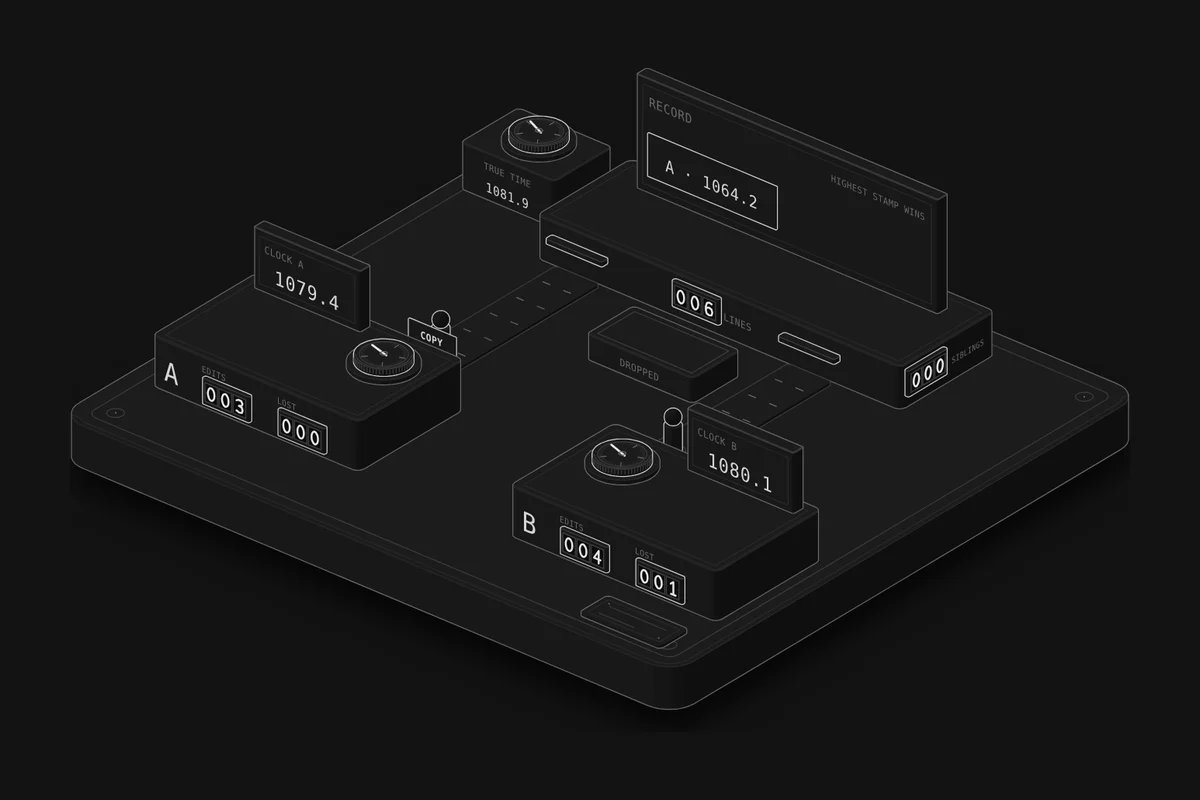
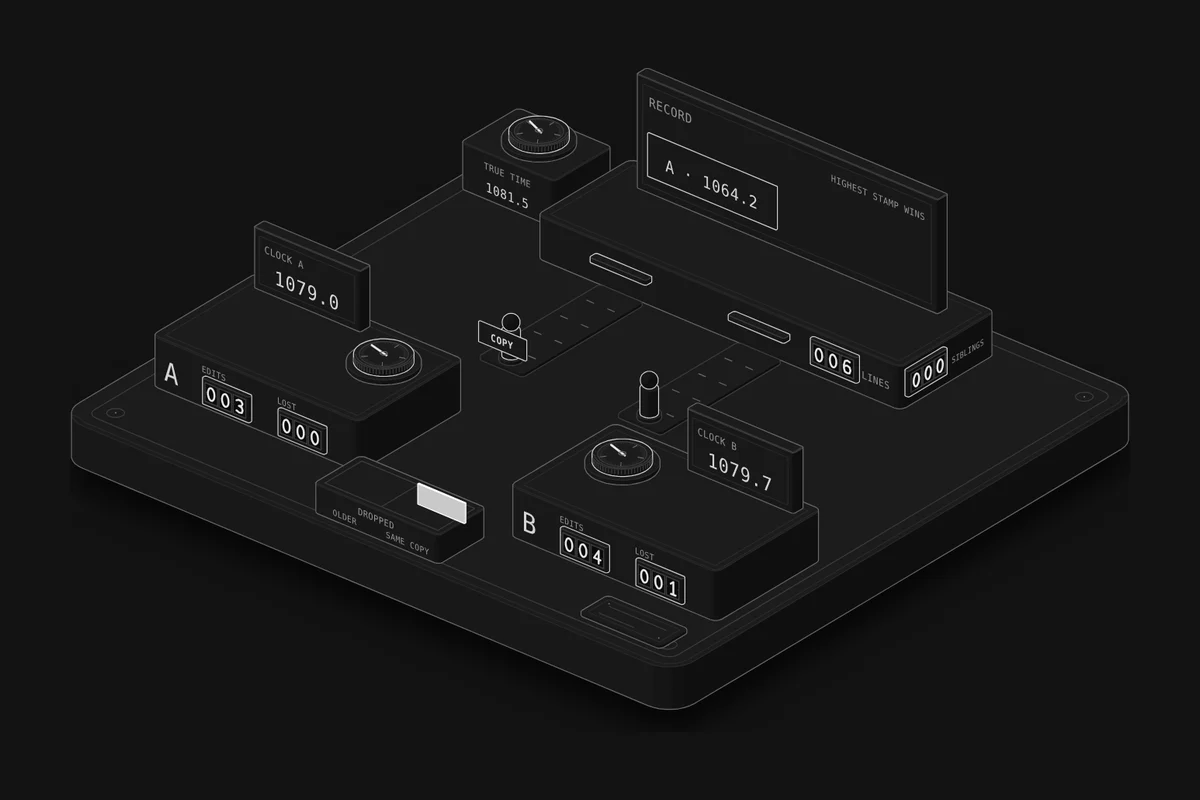
Lesson 61: fix review findings (couriers in view, OLDER and SAME COPY bins, Lamport counts, Watch timing)
Claude-Session: https://claude.ai/code/session_01S5z2gCvevbrGU3fXgpGDmP

diff --git a/src/lessons/clocks/live.ts b/src/lessons/clocks/live.ts
@@ -1,7 +1,8 @@
 // @ts-nocheck: live code in the style of the other lessons; shared helpers come from src/runtime and src/lib.
 // The records desk in the browser: runs the model in slow motion, walks each office's courier to the desk and back,
-// turns the clocks, shows the record's stamp (and a sibling), drops lost edits into the tray, and answers the
-// controls. mount() gets the build-time data from page.ts (projection, geometry, the courier drawing) and root, the
+// turns the clocks, shows the record's stamp (and a sibling), drops lost edits into the tray's bins, and answers the
+// controls. "Watch it on the machine" jumps the run to a few seconds before the moment the experiment is about,
+// found by running the same seed ahead. mount() gets the build-time data from page.ts (projection, geometry, the courier drawing) and root, the
 // <wb-lesson>.
 import { translateAlong, depthOf } from "../../../workbench/vendor-anatomy/kit/iso-kit.mjs";
 import * as WB from "../../runtime/wb";
@@ -37,24 +38,36 @@ export default function mount({ P, G, COURIER_SVG, SLIP_SVG }, root) {
     setText(c.text, label);
     show(c.slip, label !== "");
   }
-  // lit slips falling into the tray (page time, so they fall at the same pace at every speed)
-  const drops = [];
+  // lit slips falling into the tray's bins (page time, so they fall at the same pace at every speed); the last three
+  // in each bin stay there, newest in front
+  const drops = [], resting = [[], []], KEEP = 3;
   let pageT = 0;
-  function drop(from) {
+  const restAt = (bin, k) => [G.TRAY_SPOTS[bin][0], G.TRAY_SPOTS[bin][1] - 4 + 4 * k, G.TRAY_SPOTS[bin][2] - 3];
+  function drop(from, bin) {
     const g = document.createElementNS(NS, "g");
     g.innerHTML = SLIP_SVG;
     setLit(g, true);
     dropLayer.appendChild(g);
-    drops.push({ g, from, born: pageT });
+    drops.push({ g, from, bin, born: pageT });
+  }
+  function land(d) {
+    const pile = resting[d.bin];
+    pile.push(d);
+    if (pile.length > KEEP) pile.shift().g.remove();
+    pile.forEach((x, k) => { x.g.setAttribute("transform", translateAlong(P, restAt(d.bin, k))); dropLayer.appendChild(x.g); });
+    // flying slips stay in front of the resting ones
+    for (const f of drops) dropLayer.appendChild(f.g);
   }
 
   // ---------- settings and the run ----------
   const cfg = { rule: "lww", clocks: "ntp", speed: 0.004 };
-  let model, clock, logAt, seed = 5, handled, saidAt = -9, saidRank = 0, held = null;
+  let model, clock, logAt, seed = 5, runSeed = 5, handled, saidAt = -9, saidRank = 0, held = null;
+  const simCfg = () => ({ rule: cfg.rule, clocks: cfg.clocks, stepAt: STEP_AT });
 
-  function restart() {
-    for (const d of drops.splice(0)) d.g.remove();
-    model = makeSim({ rule: cfg.rule, clocks: cfg.clocks, stepAt: STEP_AT }, seed);
+  function restart(useSeed = seed) {
+    for (const d of [...drops.splice(0), ...resting[0].splice(0), ...resting[1].splice(0)]) d.g.remove();
+    runSeed = useSeed;
+    model = makeSim(simCfg(), useSeed);
     seed = (seed * 7 + 3) % 9973 + 1;
     clock = 0; logAt = 0; handled = new Set(); saidAt = -9; saidRank = 0; held = null;
     WB.pose(svg, "rule", cfg.rule);
@@ -63,27 +76,32 @@ export default function mount({ P, G, COURIER_SVG, SLIP_SVG }, root) {
   }
 
   // ---------- narration: the model's log ----------
+  // a message stays up at least 1.4 s of page time (3 s for a lost edit) unless a more important one comes; a less
+  // important one waits
+  const holdFor = (rank) => (rank >= 3 ? 3 : 1.4);
   function say(rank, text) {
-    // a message stays up at least 1.4 s of page time unless a more important one comes; a less important one waits
     const wall = performance.now() / 1000;
-    if (rank < saidRank && wall - saidAt < 1.4) { held = { rank, text }; return; }
+    if (rank < saidRank && wall - saidAt < holdFor(saidRank)) { held = { rank, text }; return; }
     held = null;
     saidRank = rank; saidAt = wall;
     root.figure.say(L(text));
   }
   function sayHeld() {
-    if (held && performance.now() / 1000 - saidAt >= 1.4) { const h = held; held = null; saidRank = -1; say(h.rank, h.text); }
+    if (held && performance.now() / 1000 - saidAt >= holdFor(saidRank)) { const h = held; held = null; saidRank = -1; say(h.rank, h.text); }
   }
   const who = (i) => OFFICES[i];
+  // what a stamp is called under each rule, as the board says it: a wall-clock stamp, a Lamport count, a vector
+  const STAMP = { lww: T("stamp", "sello"), lamport: T("count", "contador"), vector: T("vector", "vector") };
   function narrate() {
     for (; logAt < model.log.length; logAt++) {
       const e = model.log[logAt];
       if (e.t > clock) break;
-      const w = e.w, s = e.s, a = w ? who(w.office) : "";
+      const w = e.w, s = e.s, a = w ? who(w.office) : "", st = STAMP[cfg.rule];
       switch (e.type) {
-        case "send": say(0, T(a + " sends its edit · stamp " + w.label, a + " envía su edición · sello " + w.label)); break;
+        case "send": say(0, T(a + " sends its edit · " + st.en + " " + w.label, a + " envía su edición · " + st.es + " " + w.label)); break;
         case "won":
           if (cfg.rule === "vector") say(1, T(a + "'s " + w.label + " has seen the record · replaces it", w.label + " de " + a + " ya vio el registro · lo reemplaza"));
+          else if (cfg.rule === "lamport") say(1, T(a + "'s count " + w.label + " is the highest · kept", "el contador " + w.label + " de " + a + " es el más alto · queda"));
           else say(1, T(a + "'s " + w.label + " is the highest stamp · kept", w.label + " de " + a + " es el sello más alto · queda"));
           break;
         case "older":
@@ -151,16 +169,17 @@ export default function mount({ P, G, COURIER_SVG, SLIP_SVG }, root) {
       const w = ws[j];
       if (handled.has(w.id) || w.arrive > clock) continue;
       handled.add(w.id);
-      if (w.fate === "older" || w.fate === "conc") drop([G.LANE_X[w.office], G.DESK_Y, 8]);
-      else if (w.fate === "over") drop([G.CARDS[0].x + G.CARDS[0].w / 2, G.BOARD_FACE + 2, G.CARD_Z + 2]);
+      // bin 0, OLDER: lost to an edit its writer had read; bin 1, SAME COPY: lost to (or overwritten by) an edit made
+      // from the same copy
+      if (w.fate === "older" || w.fate === "conc") drop([G.LANE_X[w.office], G.DESK_Y, 8], w.fate === "older" ? 0 : 1);
+      else if (w.fate === "over") drop([G.CARDS[0].x + G.CARDS[0].w / 2, G.BOARD_FACE + 2, G.CARD_Z + 2], 1);
     }
-    for (let i = drops.length - 1; i >= 0; i--) {
-      const d = drops[i], u = (pageT - d.born) / 0.7;
-      if (u >= 1.5) { d.g.remove(); drops.splice(i, 1); continue; }
-      const k = clamp(u), [x0, y0, z0] = d.from, [x1, y1, z1] = G.TRAY_SPOT;
-      const p = [lerp(x0, x1, k), lerp(y0, y1, k), lerp(z0, z1, k) + 10 * Math.sin(Math.PI * k)];
+    for (let i = 0; i < drops.length; i++) {
+      const d = drops[i], u = (pageT - d.born) / 0.9;
+      if (u >= 1) { drops.splice(i--, 1); land(d); continue; }
+      const [x0, y0, z0] = d.from, [x1, y1, z1] = restAt(d.bin, Math.min(KEEP - 1, resting[d.bin].length));
+      const p = [lerp(x0, x1, u), lerp(y0, y1, u), lerp(z0, z1, u) + 24 * Math.sin(Math.PI * u)];
       d.g.setAttribute("transform", translateAlong(P, p));
-      d.g.style.opacity = u > 1 ? String(clamp((1.5 - u) / 0.5)) : "";
     }
     counters.lines.setClamped(model.lines().length);
     counters.siblings.setClamped(model.st.siblings);
@@ -218,9 +237,58 @@ export default function mount({ P, G, COURIER_SVG, SLIP_SVG }, root) {
   };
   root.on("action", (name) => actions[name]?.());
 
-  // ---------- "Watch it on the machine": an experiment's settings ----------
+  // ---------- "Watch it on the machine": an experiment's settings, and the moment it's about ----------
+  // The first edit the desk drops though its writer had read the edit that beat it, found by running the run ahead
+  // without drawing it. Each run draws its own clock offsets, and with two offsets that happen to agree it may not
+  // come for a long while, so the next few runs' offsets are tried too.
+  const MOMENTS = { older: (e) => e.type === "older" };
+  function firstMoment(pred, s, cap) {
+    const m = makeSim(simCfg(), s);
+    for (let T = 10, j = 0; T <= cap; T += 10) {
+      m.runTo(T);
+      for (; j < m.log.length; j++) if (pred(m.log[j])) return m.log[j].t;
+    }
+    return null;
+  }
+  // How many seconds of page time the machine takes to play the run s from T0 to T1, idle stretches sped up as the
+  // loop does.
+  function pageSecs(s, T0, T1) {
+    const m = makeSim(simCfg(), s);
+    m.runTo(T0);
+    const dt = 1 / 60, step = dt * 1000 * cfg.speed;
+    let c = T0, n = 0;
+    while (c < T1 && n < 900) {
+      const busy = m.offices.some((o) => o.phase !== "idle");
+      c = busy ? c + step : Math.max(c + step, Math.min(c + step * IDLE_BOOST, ...m.offices.map((o) => o.nextAt)));
+      m.runTo(c);
+      n++;
+    }
+    return n * dt;
+  }
+  // Run the model to T without narrating or dropping what happened before it.
+  function jumpTo(T) {
+    if (T <= clock) return;
+    model.runTo(T);
+    clock = T;
+    for (; logAt < model.log.length && model.log[logAt].t <= T; logAt++);
+    for (const w of model.writes) if (w.arrive <= T) handled.add(w.id);
+    paint();
+    showStats();
+  }
   root.on("watch", (w) => {
     for (const key of ["rule", "clocks"]) set(key, w[key], true);
+    if (w.until && MOMENTS[w.until]) {
+      for (let k = 0, s = seed; k < 30; k++, s = (s * 7 + 3) % 9973 + 1) {
+        const t = firstMoment(MOMENTS[w.until], s, 1500);
+        if (t === null) continue;
+        restart(s);
+        // land about 4.5 s of page time before it: the edit's GET, its copy and its trip back
+        let lead = 4;
+        while (lead < 80 && t - lead > 0 && pageSecs(s, t - lead, t) < 4.5) lead += 2;
+        jumpTo(Math.max(0, t - lead));
+        return wake();
+      }
+    }
     restart();
     wake();
   });

diff --git a/src/lessons/clocks/figure.ts b/src/lessons/clocks/figure.ts
@@ -4,7 +4,9 @@
 // records desk: a board shows the record it holds (the stamp, and with vector clocks a second card for a sibling),
 // a counter of the lines on the record and one of siblings kept. Between each office and the desk runs a lane where
 // the office's courier carries a GET, a copy, a stamped edit or an OK. Edits the desk drops fall into the DROPPED
-// tray. In the back corner, the true time, which nobody in the system can read.
+// tray between the offices, into one of two bins, where the last three stay: OLDER (it lost to an edit its writer
+// had already read) or SAME COPY (two edits made from one copy of the record). In the back corner, the true time,
+// which nobody in the system can read.
 // Built with the Anatomy kit (MIT, github.com/wheresryan22/anatomy) and the shared workbench parts.
 import * as k from "../../../workbench/kit.mjs";
 import { basePlate, labelPlate, digitCounter, figurine, faceText, dial, card, variants } from "../../../workbench/parts.mjs";
@@ -27,17 +29,18 @@ const BOARD_FACE = BOARD.y + BOARD.d;
 export const CARDS = [{ x: -44, w: 41 }, { x: 3, w: 41 }];
 const CARD_Z = DESK_H + 5, CARD_H = 12;
 
-// The lanes, one per office, from behind the office to the desk's window.
-export const LANE_X = [-44, 30];                 // each on the inner side of its office, clear of the clock display
+// The lanes, one per office, from behind the office to the desk's window: each on the inner side of its office, far
+// enough back that the office and its clock display don't hide a courier waiting there.
+export const LANE_X = [-30, 14];
 export const DESK_Y = DESK_FRONT + 5;             // where a courier stands at the desk
-export const HOME_Y = -17;                         // where a courier waits at its office
+export const HOME_Y = -27;                         // where a courier waits at its office
 const LANE = { y: DESK_FRONT + 1, d: 0 };
 LANE.d = HOME_Y + 4 - LANE.y;
 
-// The DROPPED tray, between the lanes.
-export const TRAY = { x: -17, y: -58, w: 34, d: 18, r: 1.4 };
-const TRAY_H = 7;
-export const TRAY_SPOT = [TRAY.x + TRAY.w / 2, TRAY.y + TRAY.d / 2, TRAY_H];
+// The DROPPED tray, at the front between the offices: two bins, OLDER on the left, SAME COPY on the right.
+export const TRAY = { x: -20, y: 42, w: 40, d: 18, r: 1.4 };
+const TRAY_H = 8;
+export const TRAY_SPOTS = [0, 1].map((b) => [TRAY.x + TRAY.w * (b ? 0.75 : 0.25), TRAY.y + TRAY.d / 2, TRAY_H]);
 
 // The offices.
 export const OFFICE = [{ x: -90, y: -2, w: 66, d: 40, r: 2 }, { x: 24, y: -2, w: 66, d: 40, r: 2 }];
@@ -83,9 +86,9 @@ function desk() {
   out.push(L(k.planOutline(k.insetPlan(DESK, 2.4), DESK_H, P), { tone: "faint" }));
   // a window ledge in front of each lane
   for (const x of LANE_X) out.push(S(k.slabOf({ x: x - 9, y: DESK_FRONT, w: 18, d: 2.6, r: 0.5 }, 7, 1.4, P, 2), { tone: "hi", crease: "lo" }));
-  // the lines on the record, front centre
-  out.push(digitCounter(P, { x: -14, y: DESK_FRONT, z: 3.4, count: 3, w: 4, h: 5.2, gap: 0.5, pad: 1, name: "lines" }));
-  out.push(text(1.6, DESK_FRONT, 4.6, t("LINES", "LÍNEAS"), 2.8));
+  // the lines on the record, on the front right of B's window
+  out.push(digitCounter(P, { x: 30, y: DESK_FRONT, z: 3.4, count: 3, w: 4, h: 5.2, gap: 0.5, pad: 1, name: "lines" }));
+  out.push(text(45.6, DESK_FRONT, 4.6, t("LINES", "LÍNEAS"), 2.8));
   // siblings kept, on the right face
   const side = DESK.x + DESK.w;
   out.push(digitCounter(P, { x: side, y: DESK_FRONT - 4, z: 3.4, count: 3, face: "x", w: 4, h: 5.2, gap: 0.5, pad: 1, name: "siblings" }));
@@ -127,7 +130,13 @@ function lanes() {
 
 function tray() {
   const out = [S(k.slabOf(TRAY, 0, TRAY_H, P, 3, 0.5), { tone: "mid", inner: L(k.planOutline(k.insetPlan(TRAY, 2), TRAY_H, P), { tone: "lo" }) })];
-  out.push(text(TRAY.x + TRAY.w / 2, TRAY.y + TRAY.d, 2.2, t("DROPPED", "DESCARTE"), 2.8, { anchor: "middle" }));
+  // the divider between the two bins
+  const xm = TRAY.x + TRAY.w / 2;
+  out.push(L(k.lineOnTop([xm, TRAY.y + 2], [xm, TRAY.y + TRAY.d - 2], TRAY_H, P), { tone: "lo" }));
+  const front = TRAY.y + TRAY.d;
+  out.push(text(xm, front, 4.6, t("DROPPED", "DESCARTE"), 2.6, { anchor: "middle" }));
+  out.push(text(TRAY_SPOTS[0][0], front, 1.4, t("OLDER", "ANTE VIEJA"), 2.4, { anchor: "middle" }));
+  out.push(text(TRAY_SPOTS[1][0], front, 1.4, t("SAME COPY", "MISMA COPIA"), 2.4, { anchor: "middle" }));
   return out.join("");
 }
 
@@ -176,8 +185,8 @@ export function buildFigure() {
     width: WIDTH,
     height: HEIGHT,
     label: t(
-      "Two offices and a records desk on a base plate. At the front, offices A and B each have a wall clock, a display with the reading in milliseconds and a dial beside it, and counters for the edits the office made and the ones that were lost. At the back, the records desk has a board showing the record it holds: the stamp of the edit it kept, and with vector clocks a second card for a sibling, lit. A counter on the desk shows the lines on the record and one on its side the siblings kept. A lane runs from each office to the desk; on it the office's courier carries a GET, a copy, an edit with its stamp, or an OK. Edits the desk drops fall into the DROPPED tray between the lanes, lit. In the back corner, a tower shows the true time.",
-      "Dos oficinas y una mesa de registros sobre una placa base. Adelante, las oficinas A y B tienen cada una un reloj de pared, una pantalla con la lectura en milisegundos y un dial al lado, y contadores de las ediciones que hizo la oficina y de las que se perdieron. Al fondo, la mesa de registros tiene un tablero con el registro que guarda: el sello de la edición que conservó y, con relojes vectoriales, una segunda tarjeta encendida para una versión hermana. Un contador en la mesa muestra las líneas del registro y otro a un costado las hermanas guardadas. De cada oficina sale un carril hasta la mesa; por él, el mensajero de la oficina lleva un GET, una copia, una edición con su sello o un OK. Las ediciones que la mesa descarta caen en la bandeja DESCARTE, entre los carriles, encendidas. En la esquina del fondo, una torre muestra la hora real.",
+      "Two offices and a records desk on a base plate. At the front, offices A and B each have a wall clock, a display with the reading in milliseconds and a dial beside it, and counters for the edits the office made and the ones that were lost. At the back, the records desk has a board showing the record it holds: the stamp of the edit it kept, and with vector clocks a second card for a sibling, lit. A counter on the desk shows the lines on the record and one on its side the siblings kept. A lane runs from each office to the desk; on it the office's courier carries a GET, a copy, an edit with its stamp, or an OK. Edits the desk drops fall, lit, into the DROPPED tray at the front, between the offices: into its OLDER bin when the edit lost to one its writer had already read, into SAME COPY when two edits were made from one copy; the last three stay in each bin. In the back corner, a tower shows the true time.",
+      "Dos oficinas y una mesa de registros sobre una placa base. Adelante, las oficinas A y B tienen cada una un reloj de pared, una pantalla con la lectura en milisegundos y un dial al lado, y contadores de las ediciones que hizo la oficina y de las que se perdieron. Al fondo, la mesa de registros tiene un tablero con el registro que guarda: el sello de la edición que conservó y, con relojes vectoriales, una segunda tarjeta encendida para una versión hermana. Un contador en la mesa muestra las líneas del registro y otro a un costado las hermanas guardadas. De cada oficina sale un carril hasta la mesa; por él, el mensajero de la oficina lleva un GET, una copia, una edición con su sello o un OK. Las ediciones que la mesa descarta caen, encendidas, en la bandeja DESCARTE al frente, entre las oficinas: en su compartimento ANTE VIEJA cuando la edición perdió ante una que su autor ya había leído, en MISMA COPIA cuando dos ediciones se hicieron desde una misma copia; las tres últimas quedan en cada compartimento. En la esquina del fondo, una torre muestra la hora real.",
     ),
     body: [
       plate(),
@@ -185,13 +194,13 @@ export function buildFigure() {
       desk(),
       board(),
       lanes(),
-      tray(),
-      `<g data-layer="drop"></g>`,
       `<g data-layer="walk"></g>`,
       office(0),
       office(1),
+      tray(),
+      `<g data-layer="drop"></g>`,
     ],
   });
 }
 
-export const GEOMETRY = { LANE_X, DESK_Y, HOME_Y, TRAY_SPOT, CARDS, BOARD_FACE, CARD_Z, CARD_H };
+export const GEOMETRY = { LANE_X, DESK_Y, HOME_Y, TRAY_SPOTS, CARDS, BOARD_FACE, CARD_Z, CARD_H };

diff --git a/src/lessons/clocks/page.ts b/src/lessons/clocks/page.ts
@@ -93,7 +93,7 @@ const EXPERIMENTS = [
       "An edit is stamped by its writer's clock as it leaves. When B reads A's edit and sends its own a few milliseconds later, but B's clock reads a few milliseconds behind A's, B's stamp comes out lower: the desk keeps A's older record and drops B's, though B had built on it. That happened to " + per100(N.ntp.older) + " edits in 100, against " + per100(N.exact.older) + " with exact clocks, and each got an OK. What counts is skew against the gap between dependent edits, and on this machine an edit follows the one it read by a few milliseconds. ±" + NTP_ERR + " ms is a good sync over the internet, where NTP typically holds tens of milliseconds; on a LAN it is often under one, but there edits also follow each other faster, and none of it is guaranteed. Even exact clocks lost " + per100(N.exact.lost) + " in 100: two edits made from the same copy at once, the lost update of lesson 17, Race conditions. Skew adds edits that weren't concurrent at all.",
       "Una edición se sella con el reloj de quien la escribe cuando sale. Cuando B lee la edición de A y envía la suya unos milisegundos después, pero el reloj de B marca unos milisegundos menos que el de A, el sello de B sale más bajo: la mesa se queda con el registro más viejo de A y descarta el de B, aunque B lo había usado como base. Le pasó a " + per100(N.ntp.older) + " ediciones de cada 100, contra " + per100(N.exact.older) + " con relojes exactos, y cada una recibió un OK. Lo que cuenta es el desfase de reloj (clock skew) frente al tiempo entre ediciones que dependen una de otra, y en esta máquina una edición sigue a la que leyó por unos pocos milisegundos. ±" + NTP_ERR + " ms es una buena sincronización por internet, donde NTP suele mantener decenas de milisegundos; en una LAN a menudo queda por debajo de uno, pero ahí las ediciones también se siguen más rápido, y nada de eso está garantizado. Incluso los relojes exactos perdieron " + per100(N.exact.lost) + " de cada 100: dos ediciones hechas a la vez desde la misma copia, la actualización perdida de la lección 17, Condiciones de carrera. El desfase agrega ediciones que ni siquiera eran concurrentes.",
     ),
-    watch: { rule: "lww", clocks: "ntp" },
+    watch: { rule: "lww", clocks: "ntp", until: "older" },
   },
   {
     id: "behind",
@@ -201,7 +201,7 @@ export default defineLesson({
     plate: {
       title: t("Records desk", "Mesa de registros"),
       keys: [
-        { mark: "lit", label: t("An edit the desk drops; a sibling kept beside the record", "Una edición que la mesa descarta; una hermana guardada junto al registro") },
+        { mark: "lit", label: t("An edit the desk drops, into OLDER (it had read the edit that beat it) or SAME COPY; a sibling kept beside the record", "Una edición que la mesa descarta, en ANTE VIEJA (había leído la edición que le ganó) o en MISMA COPIA; una hermana guardada junto al registro") },
         { mark: "raised", label: t("Couriers: a GET, a copy, a stamped edit or an OK", "Mensajeros: un GET, una copia, una edición sellada o un OK") },
         { mark: "flat", label: t("The lanes between each office and the desk", "Los carriles entre cada oficina y la mesa") },
       ],
